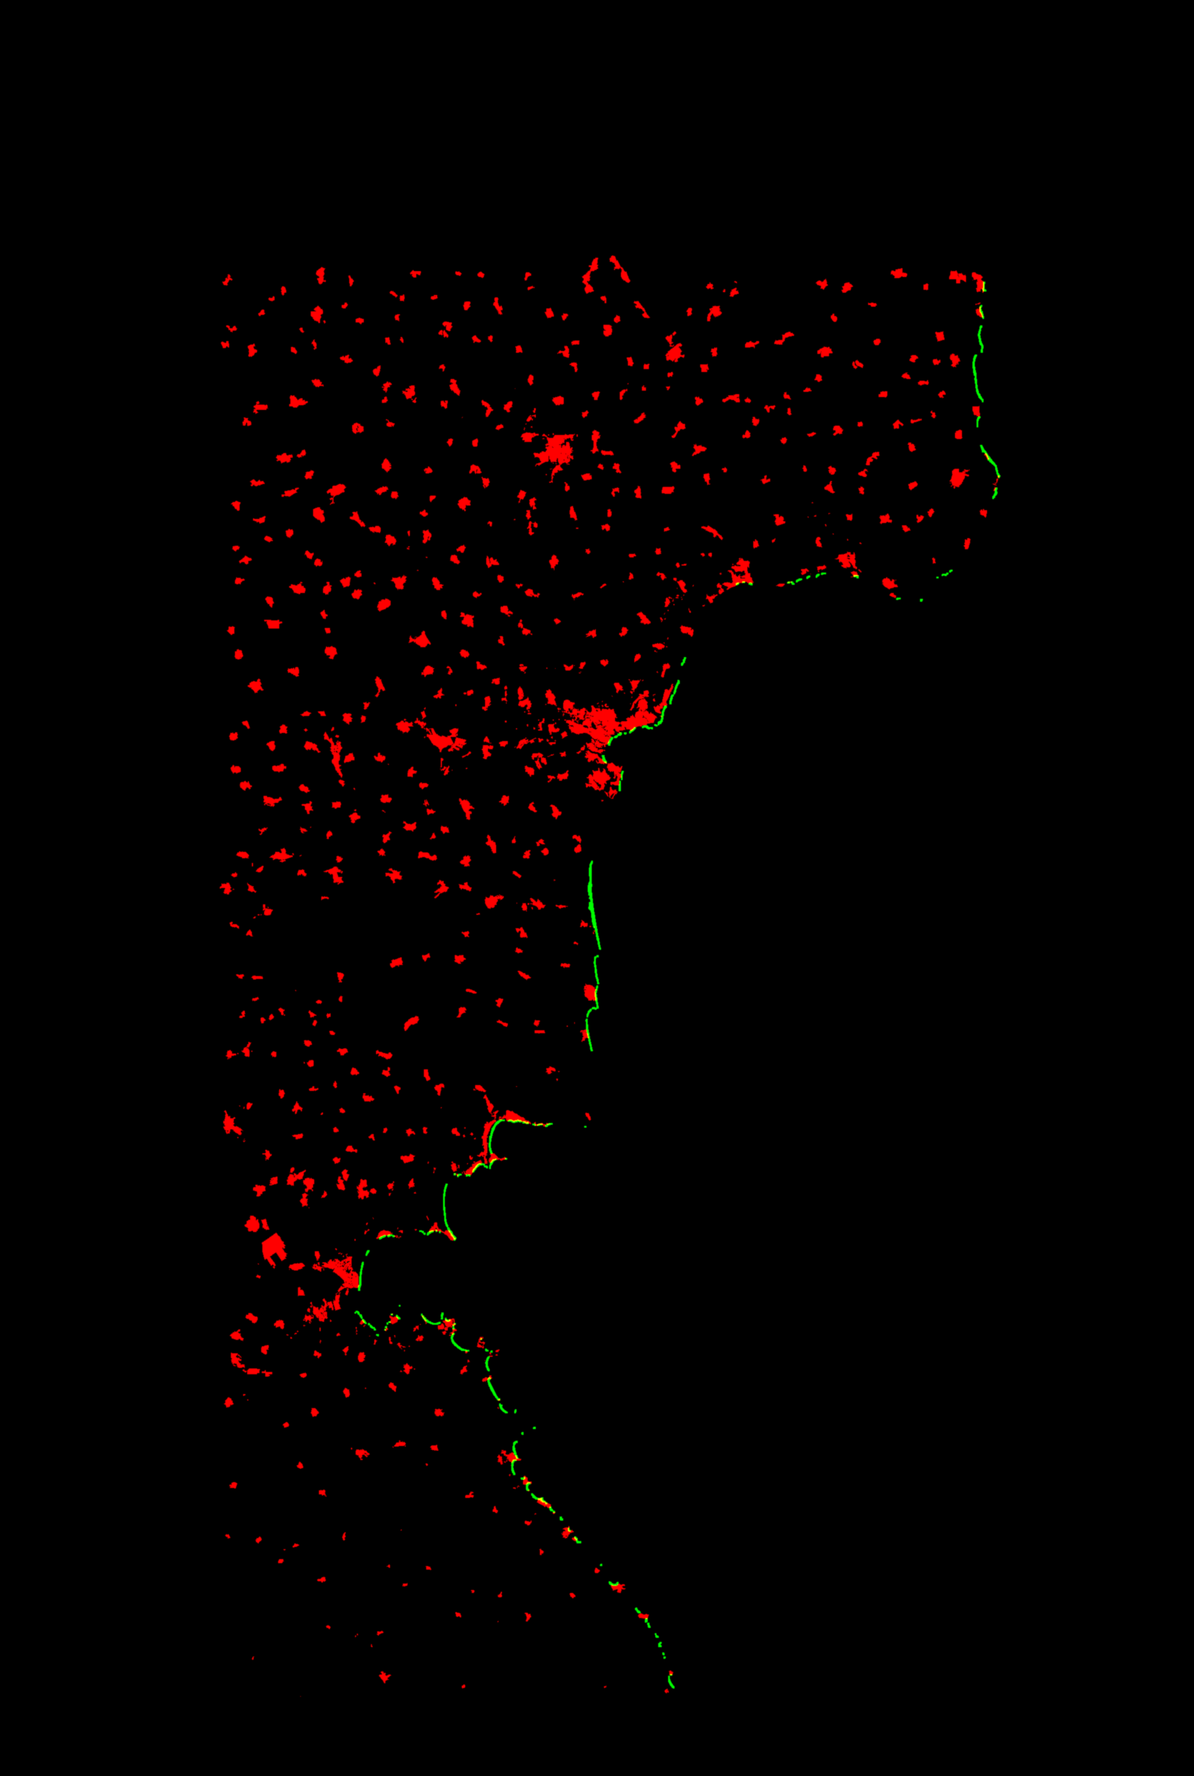
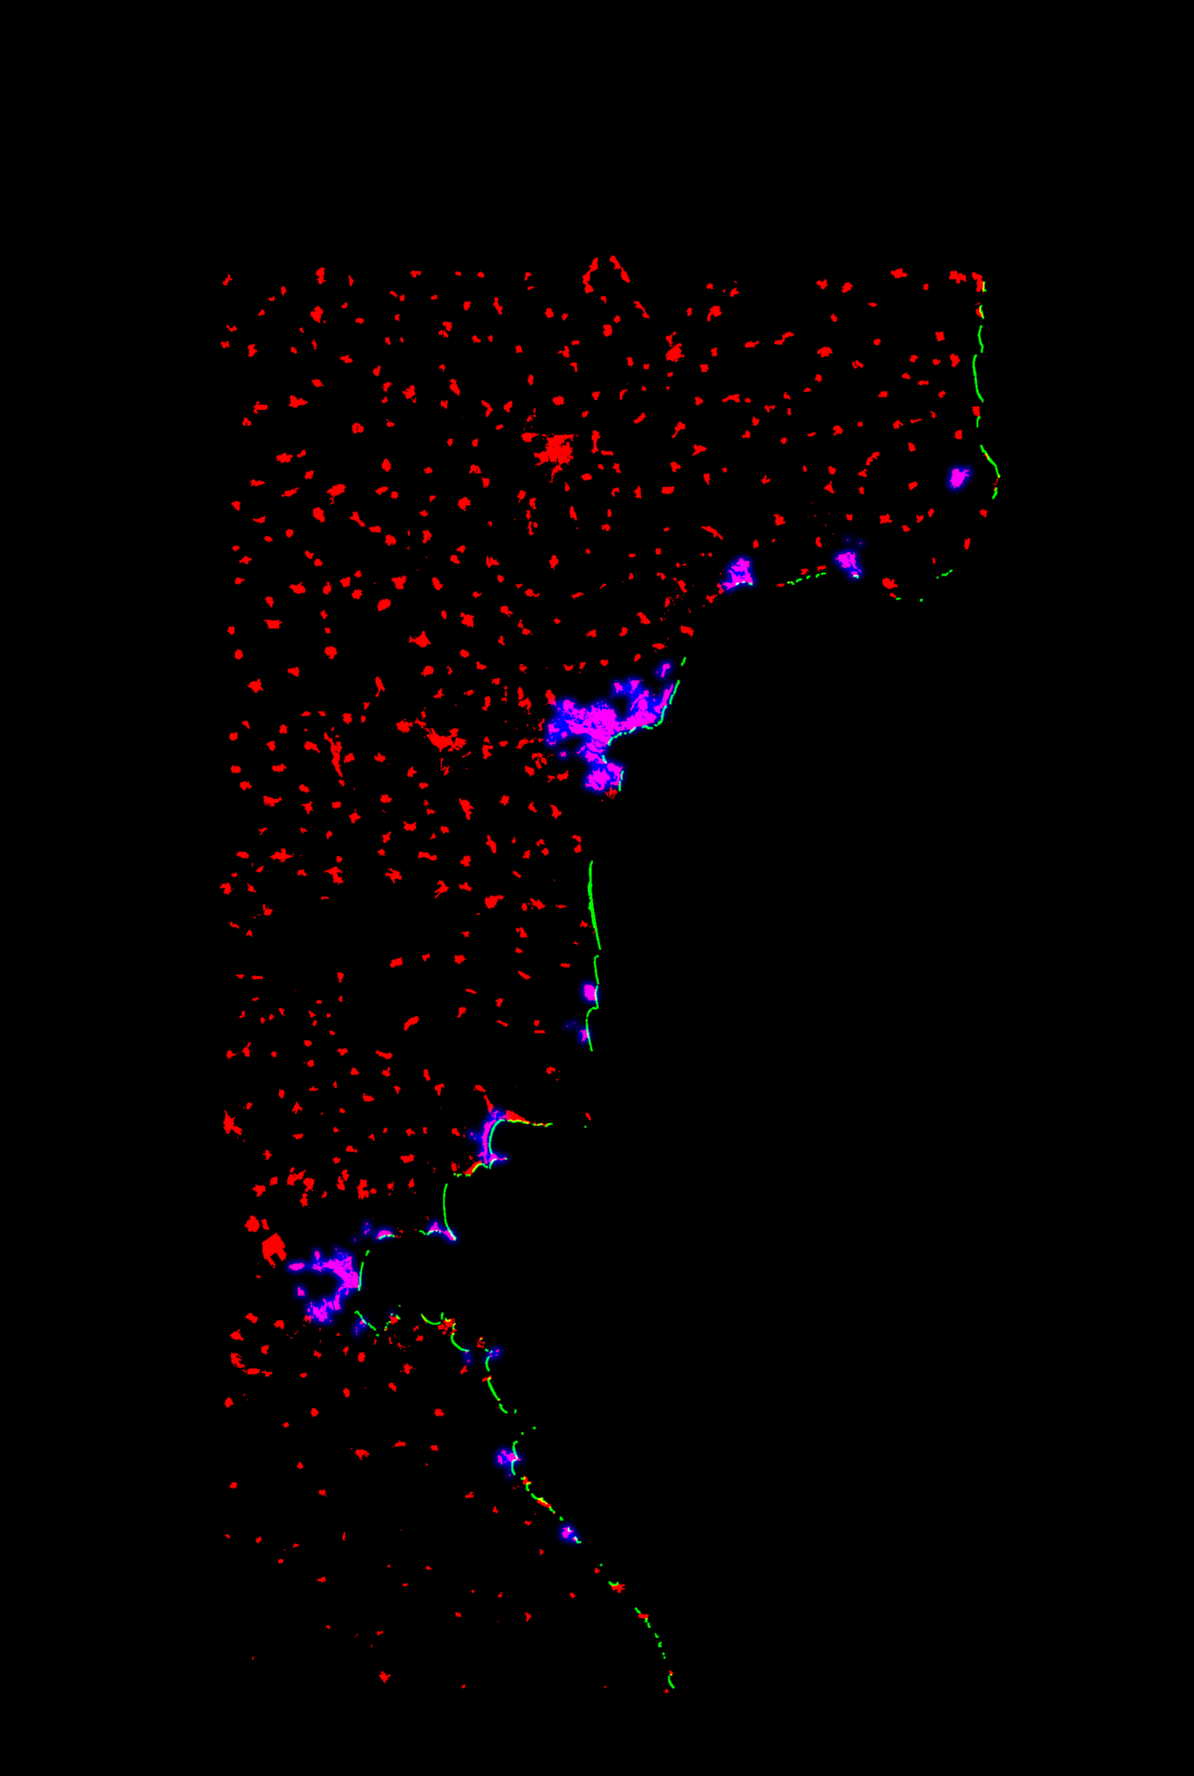
Home map: free tilt/rotate with compass, town boundaries, hover cards with town info, click-to-fly

diff --git a/src/lib/stage/Stage.svelte b/src/lib/stage/Stage.svelte
@@ -2,8 +2,16 @@
 	import { onMount } from 'svelte';
 	import { page } from '$app/state';
 	import { stage, sceneRef } from './state.svelte.js';
-	import { formatDistance } from '#lib/geo/math.js';
-	import { PLACES } from '#lib/geo/places.js';
+	import { formatDistance, metersBetween } from '#lib/geo/math.js';
+	import { PLACES, AIRPORTS } from '#lib/geo/places.js';
+
+	const placeInfo = PLACES.map((pl) => {
+		const ap = AIRPORTS.map((a) => ({ a, m: metersBetween([pl.lat, pl.lon], [a.lat, a.lon]) })).sort((x, y) => x.m - y.m)[0];
+		return { ...pl, airport: `${Math.max(1, Math.round(ap.m / 1000))} км до аэропорта ${ap.a.name}` };
+	});
+	let hover = $state(-1);
+	let cardEl = $state();
+	let compassEl = $state();
 
 	let { properties } = $props();
 
@@ -47,6 +55,11 @@
 	let n = 0;
 	function onFrame(frame) {
 		if (showPins) layoutPins(frame);
+		if (compassEl) compassEl.style.setProperty('--az', `${180 - (frame.view.az * 180) / Math.PI}deg`);
+		if (cardEl && hover >= 0) {
+			const f = frame.towns[hover];
+			cardEl.style.transform = `translate(${Math.min(f.x + 14, innerWidth - 300)}px, ${f.y + 14}px)`;
+		}
 		if (townsEl && stage.phase === 'over') {
 			const placed = [];
 			for (let i = 0; i < frame.towns.length; i++) {
@@ -207,9 +220,27 @@
 	aria-hidden="true"
 ></div>
 
-<div class="towns" class:on={showPins} bind:this={townsEl} aria-hidden="true">
-	{#each PLACES as t}<span class="t{t.tier}">{t.name}</span>{/each}
+<div class="towns" class:on={showPins} bind:this={townsEl}>
+	{#each placeInfo as t, i}<button
+			class="t{t.tier}"
+			tabindex={showPins ? 0 : -1}
+			onpointerenter={() => (hover = i)}
+			onpointerleave={() => (hover = -1)}
+			onfocus={() => (hover = i)}
+			onblur={() => (hover = -1)}
+			onclick={() => sceneRef.api?.flyToPlace(t.lat, t.lon)}>{t.name}</button
+		>{/each}
 </div>
+
+{#if showPins && hover >= 0}
+	{@const t = placeInfo[hover]}
+	<aside class="card" bind:this={cardEl} aria-live="polite">
+		<small>{t.kind}</small>
+		<h3>{t.name}</h3>
+		<p>{t.about}</p>
+		<small class="ap">✈ {t.airport}</small>
+	</aside>
+{/if}
 
 <nav class="pins" class:on={showPins} bind:this={pinsEl} aria-label="Объекты на карте">
 	{#each properties as p (p.slug)}
@@ -233,8 +264,42 @@
 		{#if stage.explore}
 			<button onclick={() => { stage.explore = false; sceneRef.api?.resetView(); }}>Вернуть общий вид</button>
 		{:else}
-			<span>Тяните карту, колесо — ближе{matchMediaCoarse ? '' : ' · правая кнопка — поворот'}</span>
+			<span>Тяните карту · колесо — ближе · компас справа — ракурс</span>
 		{/if}
+	</div>
+	<div class="compass" aria-label="Ракурс">
+		<button aria-label="Наклонить выше" onclick={() => sceneRef.api?.orbit(0, -0.18)}>▲</button>
+		<div class="row">
+			<button aria-label="Повернуть влево" onclick={() => sceneRef.api?.orbit(-0.4, 0)}>⟲</button>
+			<div
+				class="dial"
+				bind:this={compassEl}
+				role="slider"
+				tabindex="0"
+				aria-valuenow="0"
+				aria-label="Перетащите, чтобы вращать и наклонять"
+				onpointerdown={(e) => {
+					e.currentTarget.setPointerCapture(e.pointerId);
+					let lx = e.clientX, ly = e.clientY;
+					const mv = (ev) => {
+						sceneRef.api?.orbit((ev.clientX - lx) * 0.012, (ly - ev.clientY) * -0.008);
+						lx = ev.clientX;
+						ly = ev.clientY;
+					};
+					const up = () => {
+						e.currentTarget?.removeEventListener('pointermove', mv);
+						removeEventListener('pointerup', up);
+					};
+					e.currentTarget.addEventListener('pointermove', mv);
+					addEventListener('pointerup', up);
+				}}
+				ondblclick={() => { stage.explore = false; sceneRef.api?.resetView(); }}
+			>
+				<span class="n">С</span>
+			</div>
+			<button aria-label="Повернуть вправо" onclick={() => sceneRef.api?.orbit(0.4, 0)}>⟳</button>
+		</div>
+		<button aria-label="Наклонить ниже" onclick={() => sceneRef.api?.orbit(0, 0.18)}>▼</button>
 	</div>
 {/if}
 
@@ -306,6 +371,105 @@
 	.mapctl button:hover {
 		border-color: var(--accent);
 	}
+	.compass {
+		position: fixed;
+		left: var(--gutter);
+		bottom: 64px;
+		z-index: 6;
+		display: grid;
+		justify-items: center;
+		gap: 4px;
+		user-select: none;
+	}
+	.compass .row {
+		display: flex;
+		align-items: center;
+		gap: 4px;
+	}
+	.compass button {
+		width: 28px;
+		height: 28px;
+		color: var(--ink);
+		background: rgba(3, 9, 13, 0.5);
+		border: 1px solid var(--line);
+		border-radius: 50%;
+		font-size: 12px;
+		backdrop-filter: blur(6px);
+	}
+	.compass button:hover {
+		border-color: var(--accent);
+	}
+	.dial {
+		width: 58px;
+		height: 58px;
+		border-radius: 50%;
+		border: 1px solid var(--line);
+		background:
+			repeating-conic-gradient(from 0deg, rgba(236, 239, 232, 0.35) 0 1deg, transparent 1deg 30deg),
+			radial-gradient(circle, rgba(3, 9, 13, 0.35) 55%, rgba(3, 9, 13, 0.6));
+		backdrop-filter: blur(6px);
+		cursor: grab;
+		position: relative;
+		rotate: var(--az, 0deg);
+		touch-action: none;
+	}
+	.dial .n {
+		position: absolute;
+		left: 50%;
+		top: 3px;
+		translate: -50% 0;
+		font-size: 10px;
+		font-weight: 600;
+		color: var(--accent);
+	}
+	.card {
+		position: fixed;
+		left: 0;
+		top: 0;
+		z-index: 7;
+		width: 280px;
+		padding: 14px 16px;
+		background: rgba(6, 13, 18, 0.82);
+		border: 1px solid var(--line);
+		border-left: 2px solid var(--accent);
+		backdrop-filter: blur(10px);
+		pointer-events: none;
+		animation: cardIn 0.25s var(--ease);
+	}
+	@keyframes cardIn {
+		from {
+			opacity: 0;
+			translate: 0 6px;
+		}
+	}
+	.card small {
+		font-size: 10.5px;
+		letter-spacing: 0.16em;
+		text-transform: uppercase;
+		color: var(--muted);
+	}
+	.card h3 {
+		margin: 4px 0 6px;
+		font-size: 20px;
+		font-weight: 400;
+		color: var(--ink);
+	}
+	.card p {
+		margin: 0 0 10px;
+		font-size: 13.5px;
+		line-height: 1.45;
+		color: rgba(236, 239, 232, 0.82);
+	}
+	.card .ap {
+		letter-spacing: 0.04em;
+		text-transform: none;
+		color: var(--accent);
+	}
+	.towns button:hover,
+	.towns button:focus-visible {
+		color: var(--accent);
+		outline: none;
+	}
 	.towns .t1 {
 		font-size: 12.5px;
 		letter-spacing: 0.24em;
@@ -318,7 +482,13 @@
 		font-style: italic;
 		font-size: 12px;
 	}
-	.towns span {
+	.towns button {
+		pointer-events: auto;
+		cursor: pointer;
+		background: none;
+		border: 0;
+		padding: 4px 6px;
+		font-family: inherit;
 		position: absolute;
 		left: 0;
 		top: 0;

diff --git a/src/lib/geo/places.js b/src/lib/geo/places.js
@@ -1,21 +1,21 @@
 // Cartographic labels on the home map. tier 1 = cities, 2 = towns/resorts, 3 = capes.
 export const PLACES = [
-	{ name: 'Варна', lat: 43.214, lon: 27.914, tier: 1 },
-	{ name: 'Бургас', lat: 42.505, lon: 27.468, tier: 1 },
-	{ name: 'Шабла', lat: 43.539, lon: 28.535, tier: 2 },
-	{ name: 'Каварна', lat: 43.433, lon: 28.339, tier: 2 },
-	{ name: 'Балчик', lat: 43.407, lon: 28.163, tier: 2 },
-	{ name: 'Золотые Пески', lat: 43.285, lon: 28.043, tier: 2 },
-	{ name: 'Бяла', lat: 42.875, lon: 27.889, tier: 2 },
-	{ name: 'Обзор', lat: 42.82, lon: 27.88, tier: 2 },
-	{ name: 'Солнечный Берег', lat: 42.695, lon: 27.71, tier: 2 },
-	{ name: 'Несебр', lat: 42.659, lon: 27.735, tier: 2 },
-	{ name: 'Поморие', lat: 42.556, lon: 27.64, tier: 2 },
-	{ name: 'Созополь', lat: 42.418, lon: 27.696, tier: 2 },
-	{ name: 'Приморско', lat: 42.268, lon: 27.758, tier: 2 },
-	{ name: 'Царево', lat: 42.17, lon: 27.85, tier: 2 },
-	{ name: 'мыс Калиакра', lat: 43.361, lon: 28.466, tier: 3 },
-	{ name: 'мыс Эмине', lat: 42.703, lon: 27.9, tier: 3 }
+	{ name: 'Варна', lat: 43.214, lon: 27.914, tier: 1, kind: 'Город · север', about: 'Третий по величине город Болгарии, «морская столица». Морской сад вдоль набережной, свой аэропорт, жизнь круглый год.' },
+	{ name: 'Бургас', lat: 42.505, lon: 27.468, tier: 1, kind: 'Город · юг', about: 'Портовый город с аэропортом, Морским садом и озёрами вокруг. Центр южного побережья.' },
+	{ name: 'Шабла', lat: 43.539, lon: 28.535, tier: 2, kind: 'Посёлок · крайний север', about: 'Тихий север: лагуны, широкие пустые пляжи и самый восточный маяк Болгарии.' },
+	{ name: 'Каварна', lat: 43.433, lon: 28.339, tier: 2, kind: 'Город · север', about: 'Степь, скалистый берег и гольф-поля над морем. Спокойный ритм, мало туристов.' },
+	{ name: 'Балчик', lat: 43.407, lon: 28.163, tier: 2, kind: 'Город · север', about: 'Белые террасы над морем, дворец королевы Марии и ботанический сад.' },
+	{ name: 'Золотые Пески', lat: 43.285, lon: 28.043, tier: 2, kind: 'Курорт · север', about: 'Крупный курорт в 17 км от Варны, у природного парка с лесом до самого пляжа.' },
+	{ name: 'Бяла', lat: 42.875, lon: 27.889, tier: 2, kind: 'Город · центр', about: 'Небольшой город над длинными пляжами, вокруг виноградники.' },
+	{ name: 'Обзор', lat: 42.82, lon: 27.88, tier: 2, kind: 'Посёлок · центр', about: 'Курортный посёлок с одним из самых длинных песчаных пляжей побережья.' },
+	{ name: 'Солнечный Берег', lat: 42.695, lon: 27.71, tier: 2, kind: 'Курорт · юг', about: 'Крупнейший курорт страны: длинный пологий пляж, рядом старый Несебр.' },
+	{ name: 'Несебр', lat: 42.659, lon: 27.735, tier: 2, kind: 'Город · юг', about: 'Старый город на полуострове — объект ЮНЕСКО. Новый город на материке.' },
+	{ name: 'Поморие', lat: 42.556, lon: 27.64, tier: 2, kind: 'Город · юг', about: 'Город на полуострове: соляные озёра, лечебные грязи, винодельни.' },
+	{ name: 'Созополь', lat: 42.418, lon: 27.696, tier: 2, kind: 'Город · юг', about: 'Один из древнейших городов на побережье: деревянный старый город на мысе.' },
+	{ name: 'Приморско', lat: 42.268, lon: 27.758, tier: 2, kind: 'Курорт · юг', about: 'Пляжи между двумя бухтами, рядом заповедник Ропотамо.' },
+	{ name: 'Царево', lat: 42.17, lon: 27.85, tier: 2, kind: 'Город · крайний юг', about: 'Тихие бухты у подножия Странджи, ближе к турецкой границе.' },
+	{ name: 'мыс Калиакра', lat: 43.361, lon: 28.466, tier: 3, kind: 'Мыс · север', about: 'Скалы высотой около 70 метров над морем, руины крепости, заповедник.' },
+	{ name: 'мыс Эмине', lat: 42.703, lon: 27.9, tier: 3, kind: 'Мыс · центр', about: 'Место, где Балканы уходят в море. Делит побережье на север и юг.' }
 ];
 
 export const LIGHTHOUSES = [
@@ -23,4 +23,9 @@ export const LIGHTHOUSES = [
 	{ name: 'Калиакра', lat: 43.3613, lon: 28.4654 },
 	{ name: 'Галата', lat: 43.1747, lon: 27.9369 },
 	{ name: 'Эмине', lat: 42.7033, lon: 27.9011 }
+];
+
+export const AIRPORTS = [
+	{ name: 'Варна', lat: 43.2321, lon: 27.8251 },
+	{ name: 'Бургас', lat: 42.5696, lon: 27.5152 }
 ];

diff --git a/src/lib/stage/coast-scene.js b/src/lib/stage/coast-scene.js
@@ -211,16 +211,16 @@ export async function createCoastScene({ canvas, properties, reduce = false, mob
           base=mix(base,forest,smoothstep(.45,.7,vary)*smoothstep(30.,120.,hm));
           base=mix(base,ridge,smoothstep(240.,520.,hm));
           base*=.85+.3*vary;
-          vec2 lu=vec2(0.);
+          vec3 lu=vec3(0.);
           #ifndef SKIRT
-          lu=texture2D(uLU,uv).rg*uHasLU;
+          lu=texture2D(uLU,uv).rgb*uHasLU;
           #endif
           // beaches: bright sand ribbon
           base=mix(base,vec3(.78,.66,.48),smoothstep(.15,.6,lu.g)*.9);
           // built-up: pale limestone with a faint block grain when close
           float blocks=noise(vW.xz*26.)*near;
           vec3 town=vec3(.50,.45,.39)*(.85+.3*blocks);
-          base=mix(base,town,smoothstep(.2,.7,lu.r)*mix(.4,.85,near));
+          base=mix(base,town,smoothstep(.2,.7,lu.r)*mix(.3,.5,near)*(1.+.7*smoothstep(.4,.6,lu.b)));
           float sh=1.;
           #if SH_STEPS > 0
           { float lxz=max(length(uSun.xz),1e-3); vec2 dUV=vec2(uSun.x/uKM.x,-uSun.z/uKM.y)/lxz; float slope=uSun.y/lxz;
@@ -235,6 +235,12 @@ export async function createCoastScene({ canvas, properties, reduce = false, mob
           float clFade=(1.-smoothstep(.25,.6,fw))*smoothstep(8.,30.,hm);
           c=mix(c, c*1.35+vec3(.02,.018,.012), (1.-min(f,1.))*.32*clFade);
           c+=vec3(1.,.62,.32)*smoothstep(.2,.7,lu.r)*.10*(1.-smoothstep(-.02,.16,uSunElev));
+          { // town boundaries: soft warm fill + crisp glowing outline
+            float fb=max(fwidth(lu.b),1e-4);
+            float edge=1.-smoothstep(0.,fb*1.6,abs(lu.b-.5));
+            float dash=.55+.45*step(.5,fract((vW.x+vW.z)*1.4));
+            c=mix(c,c*1.12+vec3(.03,.02,.0),smoothstep(.45,.6,lu.b)*.5);
+            c+=vec3(1.,.78,.45)*edge*dash*.55*(1.-smoothstep(120.,320.,camD)); }
           gl_FragColor=vec4(tone(fogged(c,vW,.0029)),cov);
         }`
 		});
@@ -681,7 +687,7 @@ export async function createCoastScene({ canvas, properties, reduce = false, mob
 	// ---------- free map camera (home only) ----------
 	const ctrl = { tgt: new THREE.Vector3(), dist: 1, az: 0, pol: 1, touched: false };
 	const cur = { tgt: new THREE.Vector3(), dist: 1, az: 0, pol: 1 };
-	const LIM = { dMin: 18, dMax: 320, pMin: 0.3, pMax: 1.28, x: KW * 0.46, z: KH * 0.46 };
+	const LIM = { dMin: 10, dMax: 320, pMin: 0.08, pMax: 1.4, x: KW * 0.46, z: KH * 0.46 };
 	function ctrlFrom(pos, tgt) {
 		const o = pos.clone().sub(tgt), d = o.length();
 		ctrl.tgt.copy(tgt).setY(0);
@@ -706,6 +712,8 @@ export async function createCoastScene({ canvas, properties, reduce = false, mob
 		target.copy(cur.tgt);
 		const sp = Math.sin(cur.pol);
 		camera.position.set(cur.tgt.x + cur.dist * sp * Math.sin(cur.az), cur.tgt.y + cur.dist * Math.cos(cur.pol), cur.tgt.z + cur.dist * sp * Math.cos(cur.az));
+		const gh = Math.max(0, heightUV(camera.position.x / KW + 0.5, camera.position.z / KH + 0.5));
+		if (camera.position.y < gh + 1.5) camera.position.y = gh + 1.5;
 	}
 	const touch = () => {
 		if (!ctrl.touched) {
@@ -853,6 +861,21 @@ export async function createCoastScene({ canvas, properties, reduce = false, mob
 			setPhase('object');
 		},
 		setPointer(x, y) { pointer.x = x; pointer.y = y; },
+		orbit(dAz, dPol) {
+			if (phase !== 'over') return;
+			ctrl.az += dAz;
+			ctrl.pol += dPol;
+			clampCtrl();
+			touch();
+		},
+		flyToPlace(lat, lon) {
+			if (phase !== 'over') return;
+			ctrl.tgt.copy(world(lat, lon)).setY(0);
+			ctrl.dist = Math.min(ctrl.dist, 42);
+			ctrl.pol = Math.min(ctrl.pol, 0.95);
+			clampCtrl();
+			touch();
+		},
 		setControls(v) {
 			controlsOn = v;
 			canvas.style.cursor = v && phase === 'over' ? 'grab' : '';
@@ -879,7 +902,7 @@ export async function createCoastScene({ canvas, properties, reduce = false, mob
 	const pointer = { x: 0, y: 0 };
 	const look = new THREE.Vector3(), ndc = new THREE.Vector3(), fwd = new THREE.Vector3();
 	let paused = false, last = 0;
-	const frame = { towns: landmarks.map((l) => ({ name: l.name, tier: l.tier, x: 0, y: 0, d: 0, vis: false })), pins: marks.map((m) => ({ slug: m.slug, x: 0, y: 0, vis: false })), tape: { x: 0, y: 0, vis: false }, horizonY: 0, latlon: [0, 0] };
+	const frame = { view: { az: 0, pol: 0 }, towns: landmarks.map((l) => ({ name: l.name, tier: l.tier, x: 0, y: 0, d: 0, vis: false })), pins: marks.map((m) => ({ slug: m.slug, x: 0, y: 0, vis: false })), tape: { x: 0, y: 0, vis: false }, horizonY: 0, latlon: [0, 0] };
 	function tick(time) {
 		const dt = Math.min(0.1, time - last);
 		last = time;
@@ -934,6 +957,8 @@ export async function createCoastScene({ canvas, properties, reduce = false, mob
 		ndc.copy(camera.position).addScaledVector(fwd, 1500).setY(0).project(camera);
 		frame.horizonY = (-ndc.y * 0.5 + 0.5) * H;
 		frame.latlon = toLatLon(camera.position);
+		frame.view.az = cur.az;
+		frame.view.pol = cur.pol;
 		onFrame?.(frame);
 	}
 	function resize() {

diff --git a/tools/bake.py b/tools/bake.py
@@ -101,10 +101,26 @@ if os.path.exists(LU):
             pts = ring(g)
             if len(pts) < 3: continue
             (db if tags.get("natural") == "beach" else du).polygon(pts, fill=255); n += 1
+    # town zones: built-up polygons near named towns, closed and smoothed -> boundary at 0.5
+    import re, math
+    src = open(os.path.join(HERE, "..", "src", "lib", "geo", "places.js"), encoding="utf-8").read()
+    named = [(float(a), float(b), int(c)) for a, b, c in re.findall(r"lat: ([\d.]+), lon: ([\d.]+), tier: (\d)", src) if int(c) < 3]
+    zone = Image.new("L", (LW, LH), 0)
+    dz = ImageDraw.Draw(zone)
+    kpx = LW / km_w
+    for el in json.load(open(LU, encoding="utf-8"))["elements"]:
+        if el.get("tags", {}).get("natural") == "beach" or el["type"] != "way" or not el.get("geometry"): continue
+        g = el["geometry"]; la = sum(p["lat"] for p in g) / len(g); lo = sum(p["lon"] for p in g) / len(g)
+        for tl, tn, tier in named:
+            dkm = math.hypot((la - tl) * 111.2, (lo - tn) * 111.2 * math.cos(math.radians(tl)))
+            if dkm < (8.5 if tier == 1 else 3.2):
+                pts = ring(g)
+                if len(pts) > 2: dz.polygon(pts, fill=255)
+                break
+    zone = zone.filter(ImageFilter.MaxFilter(15)).filter(ImageFilter.MinFilter(9)).filter(ImageFilter.GaussianBlur(5))
     urban = urban.filter(ImageFilter.GaussianBlur(0.8))
     beach = beach.filter(ImageFilter.MaxFilter(3)).filter(ImageFilter.GaussianBlur(0.8))
-    zero = Image.new("L", (LW, LH), 0)
-    Image.merge("RGB", (urban, beach, zero)).save(os.path.join(OUT, "landuse.png"), optimize=True)
+    Image.merge("RGB", (urban, beach, zone)).save(os.path.join(OUT, "landuse.png"), optimize=True)
     meta["landuse"] = [LW, LH]
     json.dump({"meta": meta, "coast": coast}, open(os.path.join(OUT, "geo.json"), "w", encoding="utf-8"), ensure_ascii=False, separators=(",", ":"))
     print("landuse polygons:", n)
